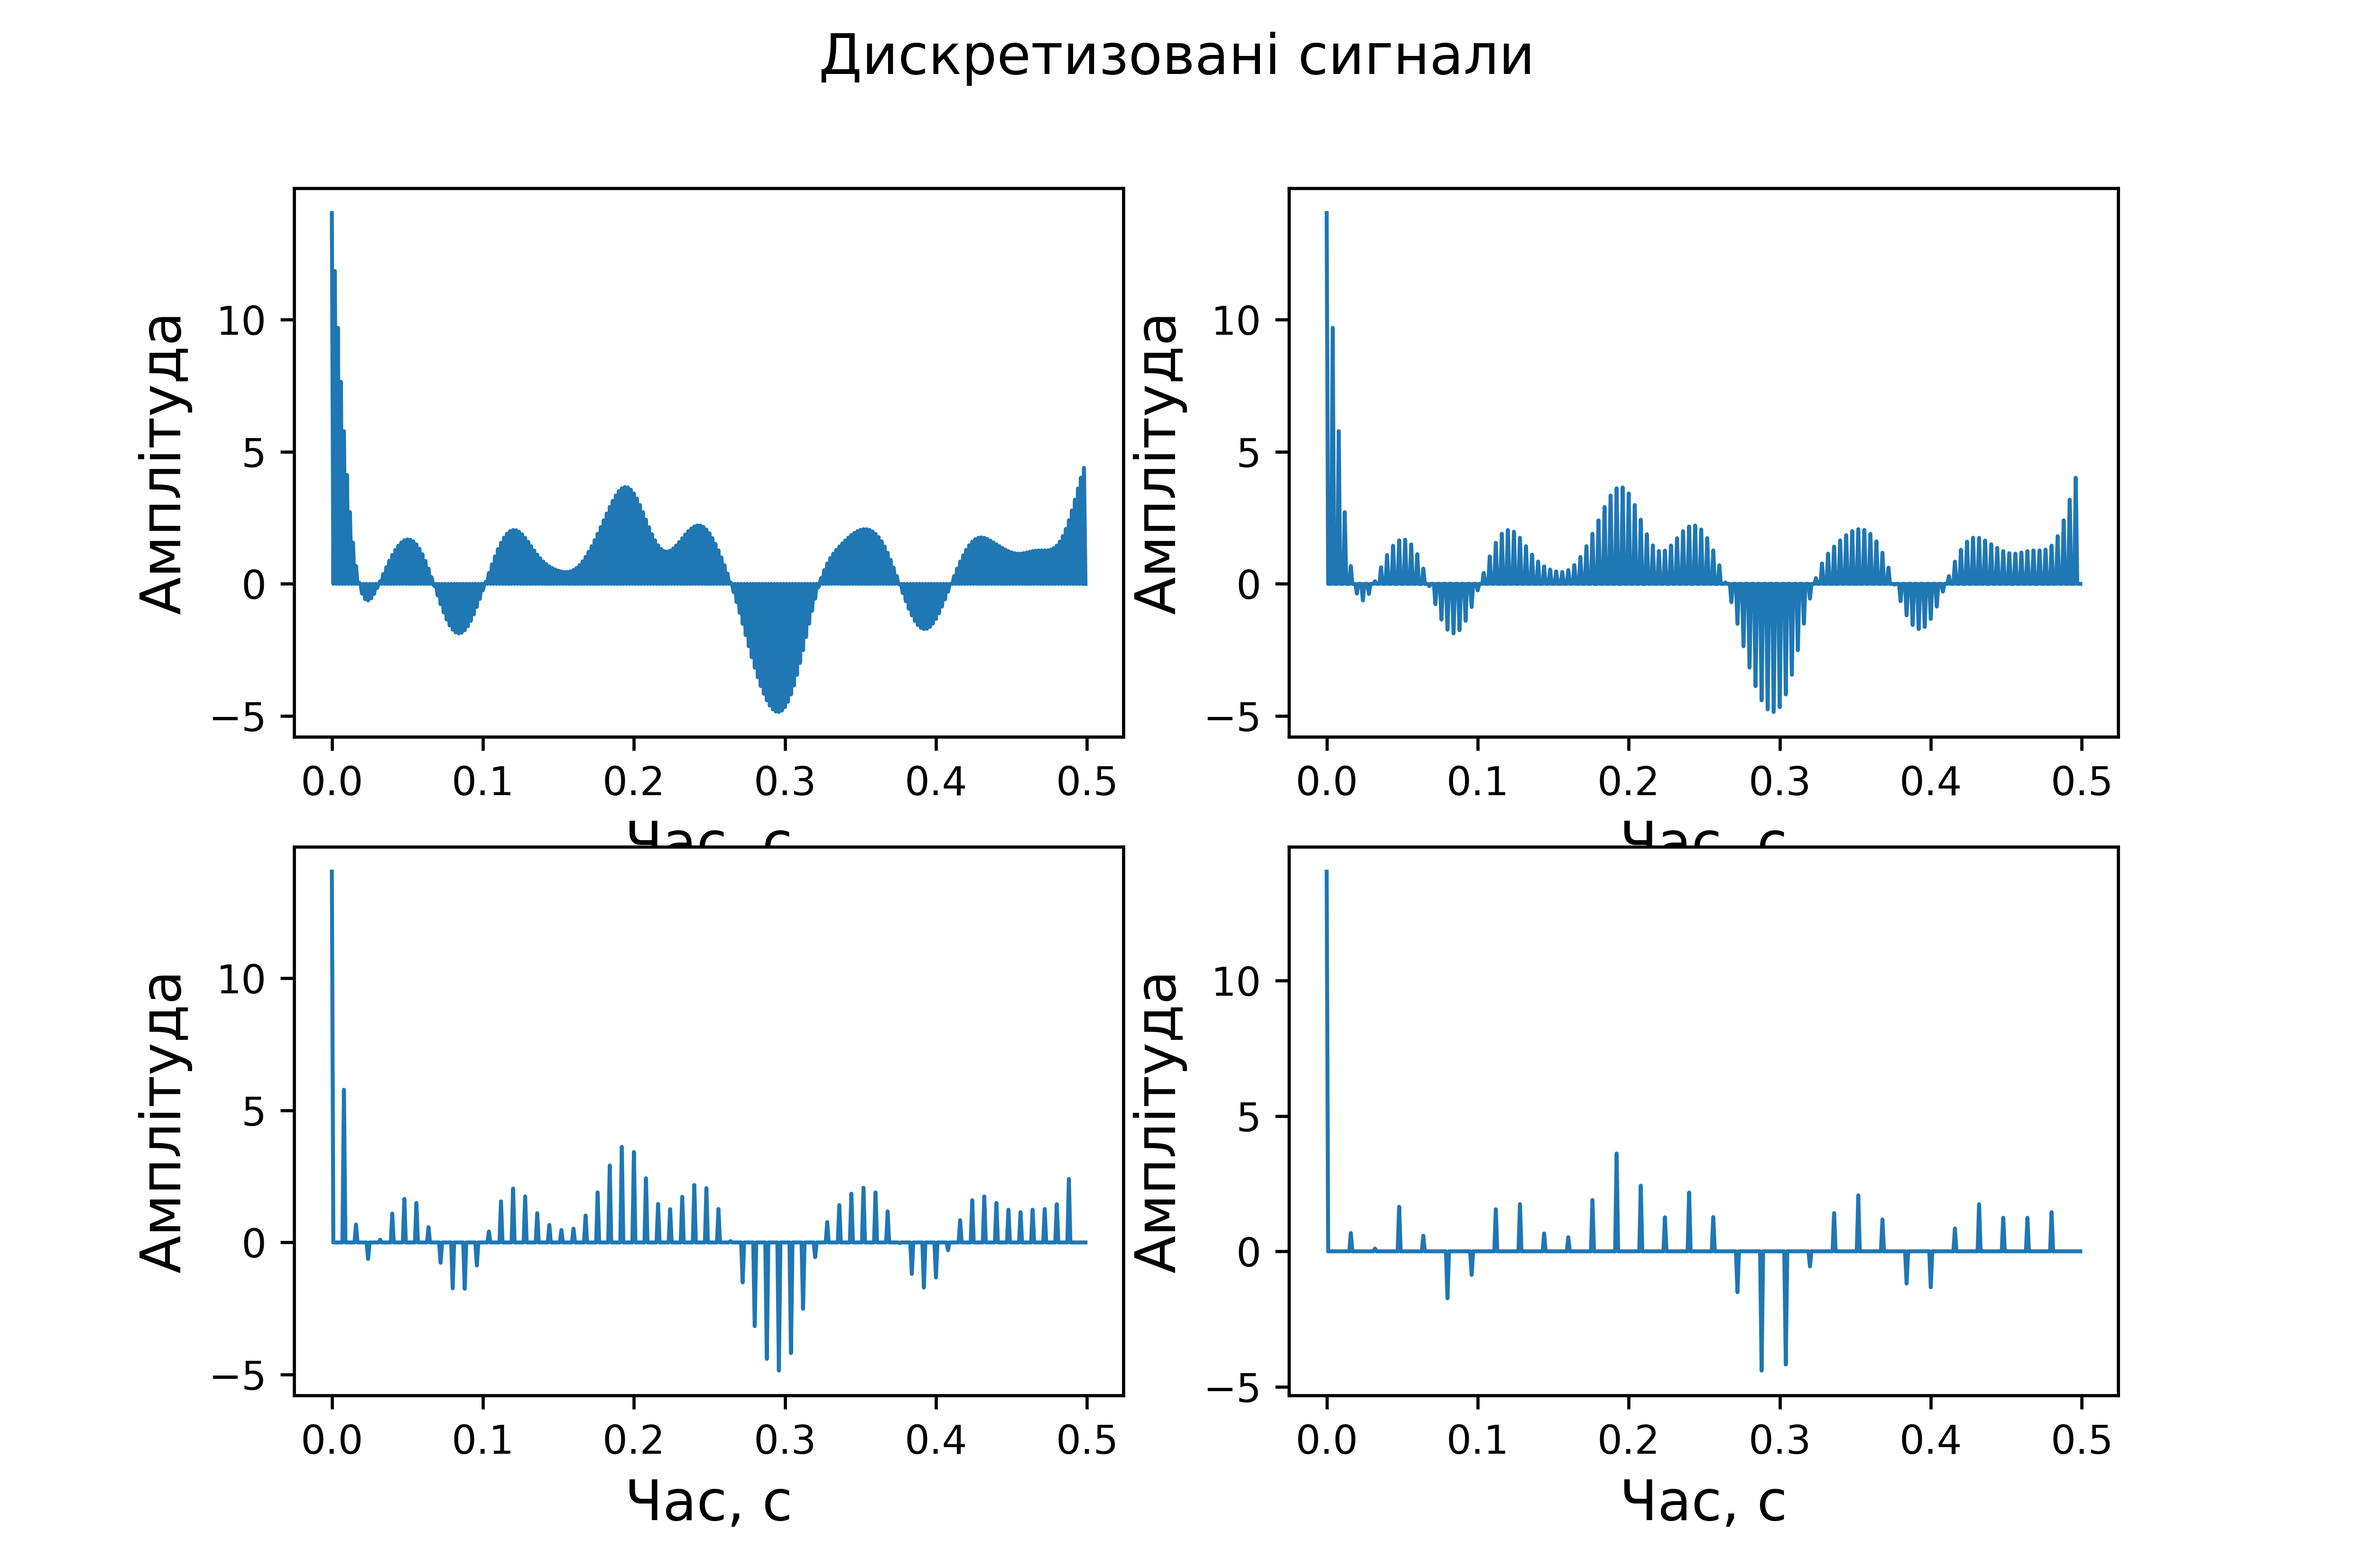
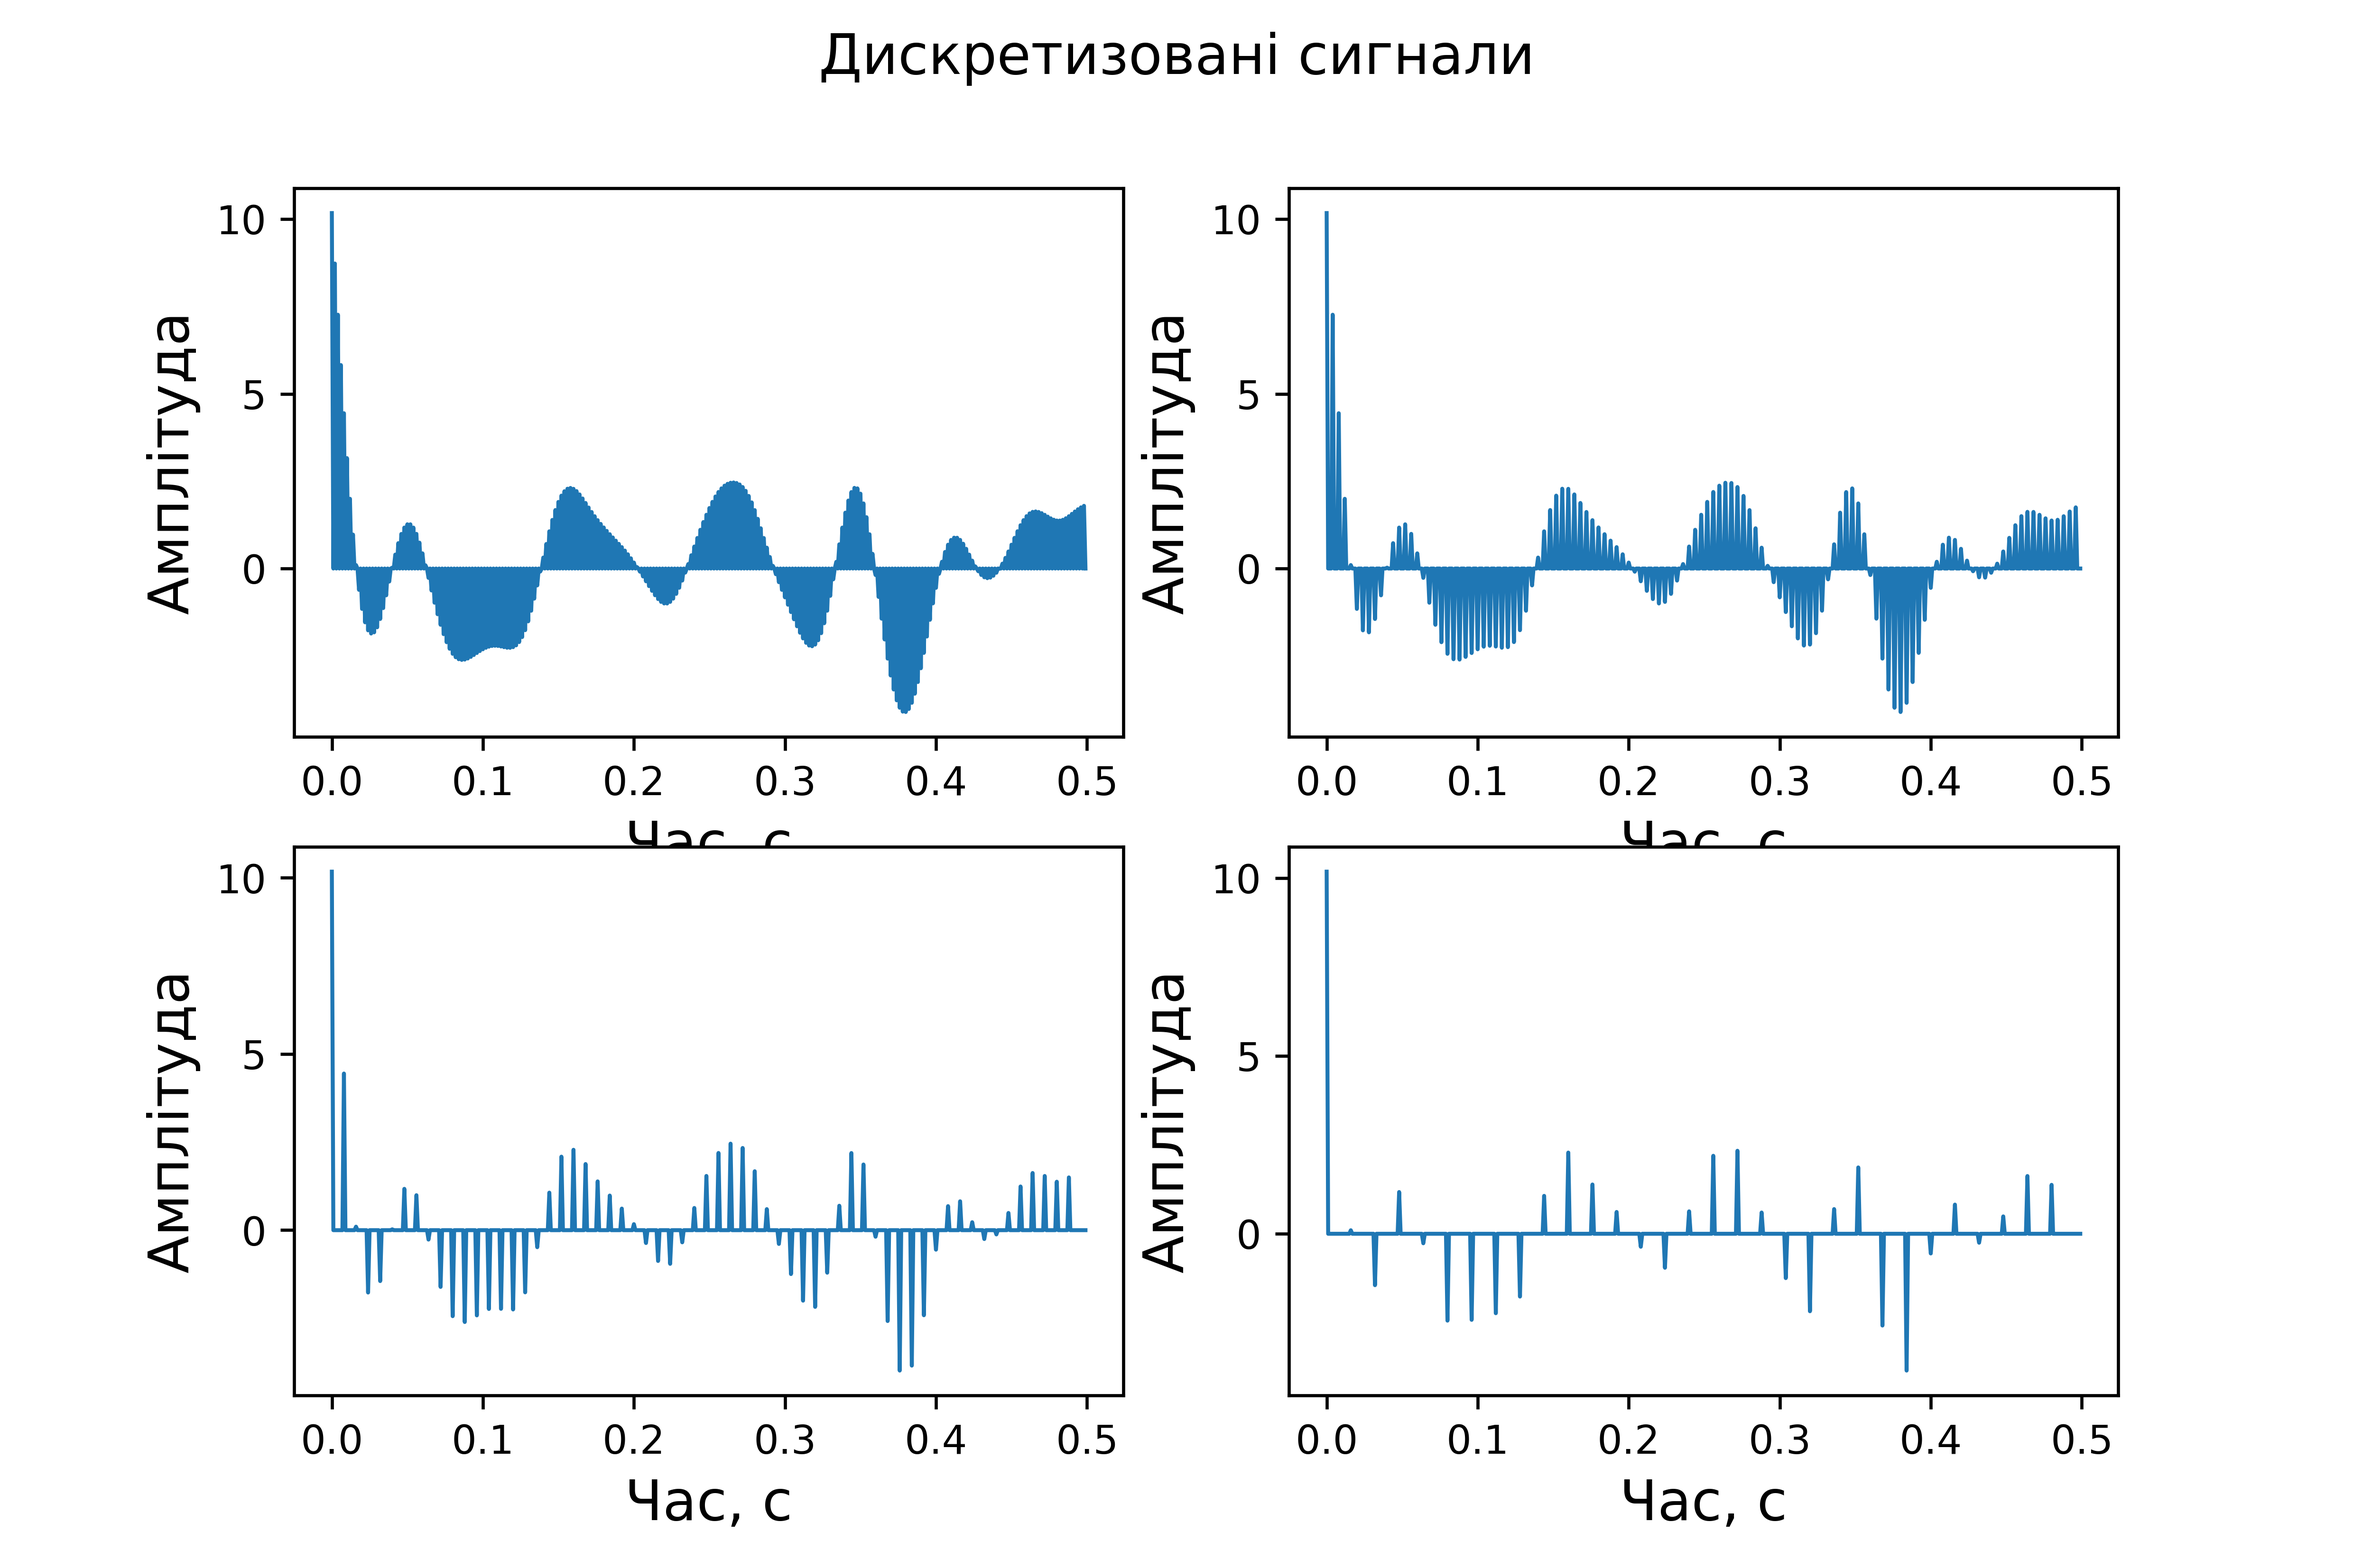
Signal processing, 3

diff --git a/SignalProcessing/SignalProcessing.py b/SignalProcessing/SignalProcessing.py
@@ -1,114 +1,104 @@
 import numpy as np
-from scipy import signal, fft
+from scipy import signal
 import matplotlib.pyplot as plt
 
-# Згенерований сигнал після обмеження частоти через ФНЧ.
+# Згенерований сигнал після обмеження частоти через ФНЧ з попередньої практики
 n = 500
-random = np.random.normal(0, 10, n)
 Fs = 1000
 t = np.arange(n) / Fs
 F_max = 19
 w = F_max / (Fs / 2)
 b, a = signal.butter(3, w, 'low', output='ba')[:2]
-filtered = signal.filtfilt(b, a, random)
+random = np.random.normal(0, 10, n)
+signal = signal.filtfilt(b, a, random)
 
 # Змінні для збереження результатів
-discrete_signals = []
-discrete_spectrums = []
-restored_signals = []
-variances_diff = []
+quantized_signals = []
+variances = []
 snr_ratios = []
 
-# Цикл по різним крокам дискретизації
-for Dt in [2, 4, 8, 16]:
-    # Створення змінної для дискретного сигналу, сформованого з нулів
-    discrete_signal = np.zeros(n)
-    # Цикл для прорідження початкового сигналу
-    for i in range(0, round(n / Dt)):
-        # Формування дискретизованого сигналу з певним кроком
-        discrete_signal[i * Dt] = filtered[i * Dt]
-    # Збереження дискретизованого сигналу у список
-    discrete_signals.append(list(discrete_signal))
+# Створення figure для квантованих сигналів
+fig_quantized, axes_quantized = plt.subplots(2, 2, figsize=(21 / 2.54, 21 / 2.54))
+axes_quantized = axes_quantized.flatten()
 
-    # Розрахунок спектру для дискретизованого сигналу
-    spectrum = fft.fft(discrete_signal)
-    spectrum = np.abs(fft.fftshift(spectrum))
-    discrete_spectrums.append(list(spectrum))
+# Цикл по різним рівням квантування
+for idx, M in enumerate([4, 16, 64, 256]):
+    # Змінні для збереження результатів в циклі
+    bits = []
 
-    # Розрахунок параметрів фільтру ФНЧ для відновлення
-    F_filter = 26
-    w_restore = F_filter / (Fs / 2)
-    b_restore, a_restore = signal.butter(3, w_restore, 'low', output='ba')[:2]
+    # Розрахунок кроку квантування
+    delta = (np.max(signal) - np.min(signal)) / (M - 1)
 
-    # Відновлення аналогового сигналу шляхом фільтрації дискретизованого
-    restored_signal = signal.filtfilt(b_restore, a_restore, discrete_signal)
-    restored_signals.append(list(restored_signal))
+    # Квантування сигналу
+    quantized_signal = delta * np.round(signal / delta)
+    quantized_signals.append(quantized_signal)
 
-    # Розрахунок різниці між початковим та відновленим сигналами
-    E1 = restored_signal - random
+    # Визначення квантованих рівнів
+    quantized_levels = np.arange(np.min(quantized_signal), np.max(quantized_signal) + delta, delta)
 
-    # Розрахунок дисперсії різниці між початковим та відновленим сигналами
-    variances_diff.append(np.var(E1))
+    # Генерація бітових послідовностей для кодування рівнів
+    quantized_bit = np.arange(0, M)
+    quantized_bit = [format(bits, '0' + str(int(np.log2(M))) + 'b') for bits in quantized_bit]
 
-    # Розрахунок співвідношення сигнал-шум як відношення дисперсій
-    snr_ratio = np.var(random) / variances_diff[-1]
-    snr_ratios.append(snr_ratio)
+    # Створення таблиці квантування
+    quantized_table = np.c_[quantized_levels[:M], quantized_bit[:M]]
 
-# Побудова графіків дискретизованих сигналів
-fig, ax = plt.subplots(2, 2, figsize=(21/2.54, 14/2.54))
-fig.suptitle('Дискретизовані сигнали', fontsize=14)
+    # Відображення таблиці квантування
+    fig, ax = plt.subplots(figsize=(14 / 2.54, M / 2.54))
+    table = ax.table(cellText=quantized_table, colLabels=['Значення сигналу', 'Кодова послідовність'], loc='center')
+    table.set_fontsize(14)
+    table.scale(1, 2)
+    ax.axis('off')
+    fig.savefig(f'./figures/quantization_table_M={M}.png', dpi=600)
 
-s = 0
-for i in range(0, 2):
-    for j in range(0, 2):
-        ax[i][j].plot(t, discrete_signals[s], linewidth=1)
-        ax[i][j].set_xlabel('Час, с', fontsize=14)
-        ax[i][j].set_ylabel('Амплітуда', fontsize=14)
-        s += 1
+    # Перетворення значень сигналу на бітові послідовності
+    for signal_value in quantized_signal:
+        for index, value in enumerate(quantized_levels[:M]):
+            if np.round(np.abs(signal_value - value), 0) == 0:
+                bits.append(quantized_bit[index])
+                break
 
-fig.savefig('./figures/discrete_signals.png', dpi=600)
+    # Об'єднання бітових послідовностей в одну послідовність
+    bits = [int(item) for item in list(''.join(bits))]
 
-# Побудова графіків спектрів
-fig, ax = plt.subplots(2, 2, figsize=(21/2.54, 14/2.54))
-fig.suptitle('Спектри дискретизованих сигналів', fontsize=14)
+    # Побудова графіку бітової послідовності
+    fig, ax = plt.subplots(figsize=(21 / 2.54, 14 / 2.54))
+    ax.step(np.arange(0, len(bits)), bits, linewidth=0.1)
+    ax.set_xlabel('Відлік', fontsize=14)
+    ax.set_ylabel('Біт', fontsize=14)
+    ax.set_title(f'Бітова послідовність для M={M}', fontsize=14)
+    fig.savefig(f'./figures/bit_sequence_M={M}.png', dpi=600)
 
-s = 0
-for i in range(0, 2):
-    for j in range(0, 2):
-        freqs = fft.fftshift(fft.fftfreq(n, 1/Fs))
-        ax[i][j].plot(freqs, discrete_spectrums[s], linewidth=1)
-        ax[i][j].set_xlabel('Частота, Гц', fontsize=14)
-        ax[i][j].set_ylabel('Амплітуда', fontsize=14)
-        s += 1
+    # Побудова графіку квантованого сигналу
+    axes_quantized[idx].plot(t, quantized_signal, linewidth=1)
+    axes_quantized[idx].set_xlabel('Час, с', fontsize=14)
+    axes_quantized[idx].set_ylabel('Амплітуда', fontsize=14)
+    axes_quantized[idx].set_title(f'Квантований сигнал для M={M}', fontsize=14)
 
-fig.savefig('./figures/discrete_spectrums.png', dpi=600)
+    # Розрахунок дисперсії та співвідношення сигнал-шум
+    variance = np.var(quantized_signal - signal)
+    variances.append(variance)
+    snr = np.var(signal) / variance
+    snr_ratios.append(snr)
 
-# Побудова графіків відновлених сигналів
-fig, ax = plt.subplots(2, 2, figsize=(21/2.54, 14/2.54))
-fig.suptitle('Відновлені сигнали', fontsize=14)
+# Зберігання графіку квантованих сигналів
+fig_quantized.tight_layout()
+fig_quantized.savefig('./figures/quantized_signals.png', dpi=600)
 
-s = 0
-for i in range(0, 2):
-    for j in range(0, 2):
-        ax[i][j].plot(t, restored_signals[s], linewidth=1)
-        ax[i][j].set_xlabel('Час, с', fontsize=14)
-        ax[i][j].set_ylabel('Амплітуда', fontsize=14)
-        s += 1
+# Побудова графіку залежності дисперсії від рівнів квантування
+fig, ax = plt.subplots(figsize=(21 / 2.54, 14 / 2.54))
+ax.plot([4, 16, 64, 256], variances, marker='o', linestyle='-', linewidth=1)
+ax.set_xlabel('Рівні квантування', fontsize=14)
+ax.set_ylabel('Дисперсія', fontsize=14)
+ax.set_title('Залежність дисперсії від рівнів квантування', fontsize=14)
+fig.savefig('./figures/dispersion_dependency.png', dpi=600)
 
-fig.savefig('./figures/restored_signals.png', dpi=600)
-
-# Графік залежності дисперсії різниці від кроку дискретизації
-fig, ax = plt.subplots(figsize=(21/2.54, 14/2.54))
-ax.plot([2, 4, 8, 16], variances_diff, marker='o', linestyle='-', linewidth=1)  # Змінено на variances_diff
-ax.set_xlabel('Крок дискретизації', fontsize=14)
-ax.set_ylabel('Дисперсія різниці', fontsize=14)
-fig.savefig('./figures/variance_dependency.png', dpi=600)
-
-# Графік залежності співвідношення сигнал-шум від кроку дискретизації
-fig, ax = plt.subplots(figsize=(21/2.54, 14/2.54))
-ax.plot([2, 4, 8, 16], snr_ratios, marker='o', linestyle='-', linewidth=1)
-ax.set_xlabel('Крок дискретизації', fontsize=14)
+# Побудова графіку залежності співвідношення сигнал-шум від рівнів квантування
+fig, ax = plt.subplots(figsize=(21 / 2.54, 14 / 2.54))
+ax.plot([4, 16, 64, 256], snr_ratios, marker='o', linestyle='-', linewidth=1)
+ax.set_xlabel('Рівні квантування', fontsize=14)
 ax.set_ylabel('Співвідношення сигнал-шум', fontsize=14)
-fig.savefig('./figures/snr_ratio_dependency.png', dpi=600)
+ax.set_title('Залежність співвідношення сигнал-шум від рівнів квантування', fontsize=14)
+fig.savefig('./figures/snr_dependency.png', dpi=600)
 
 plt.show()
